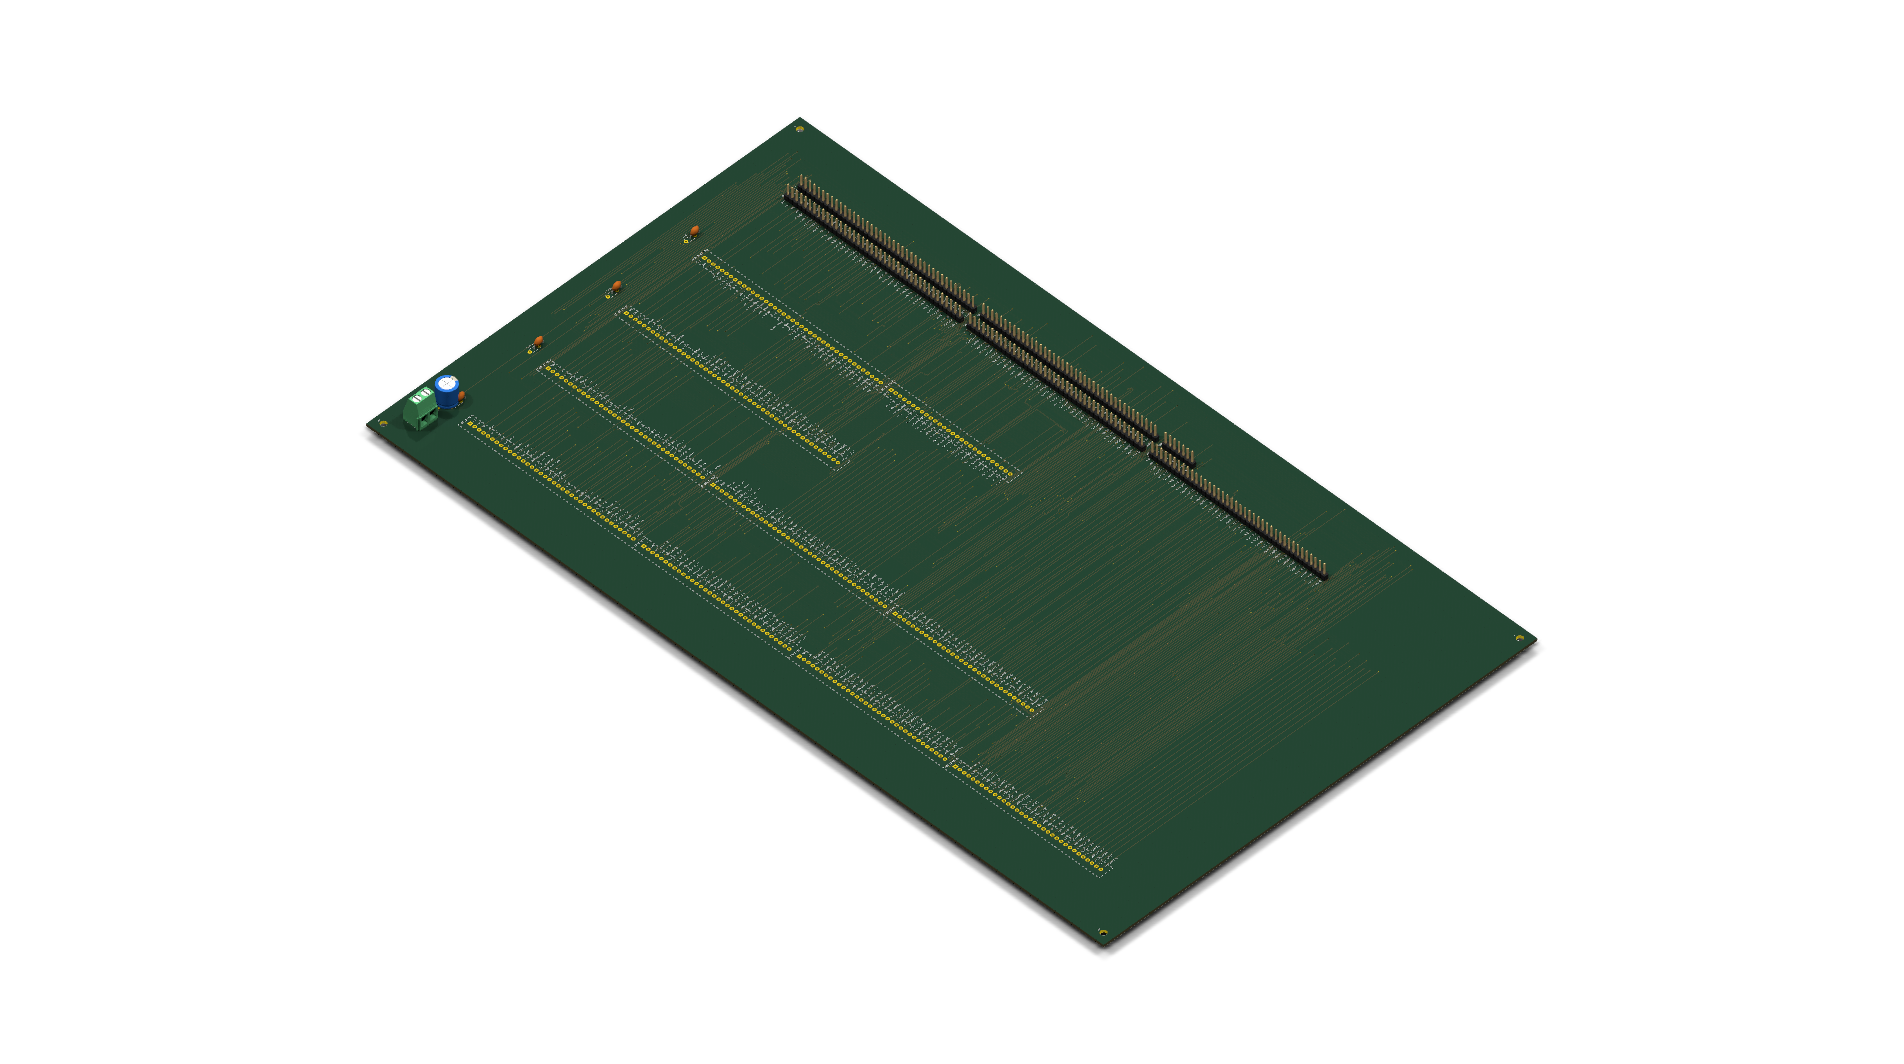
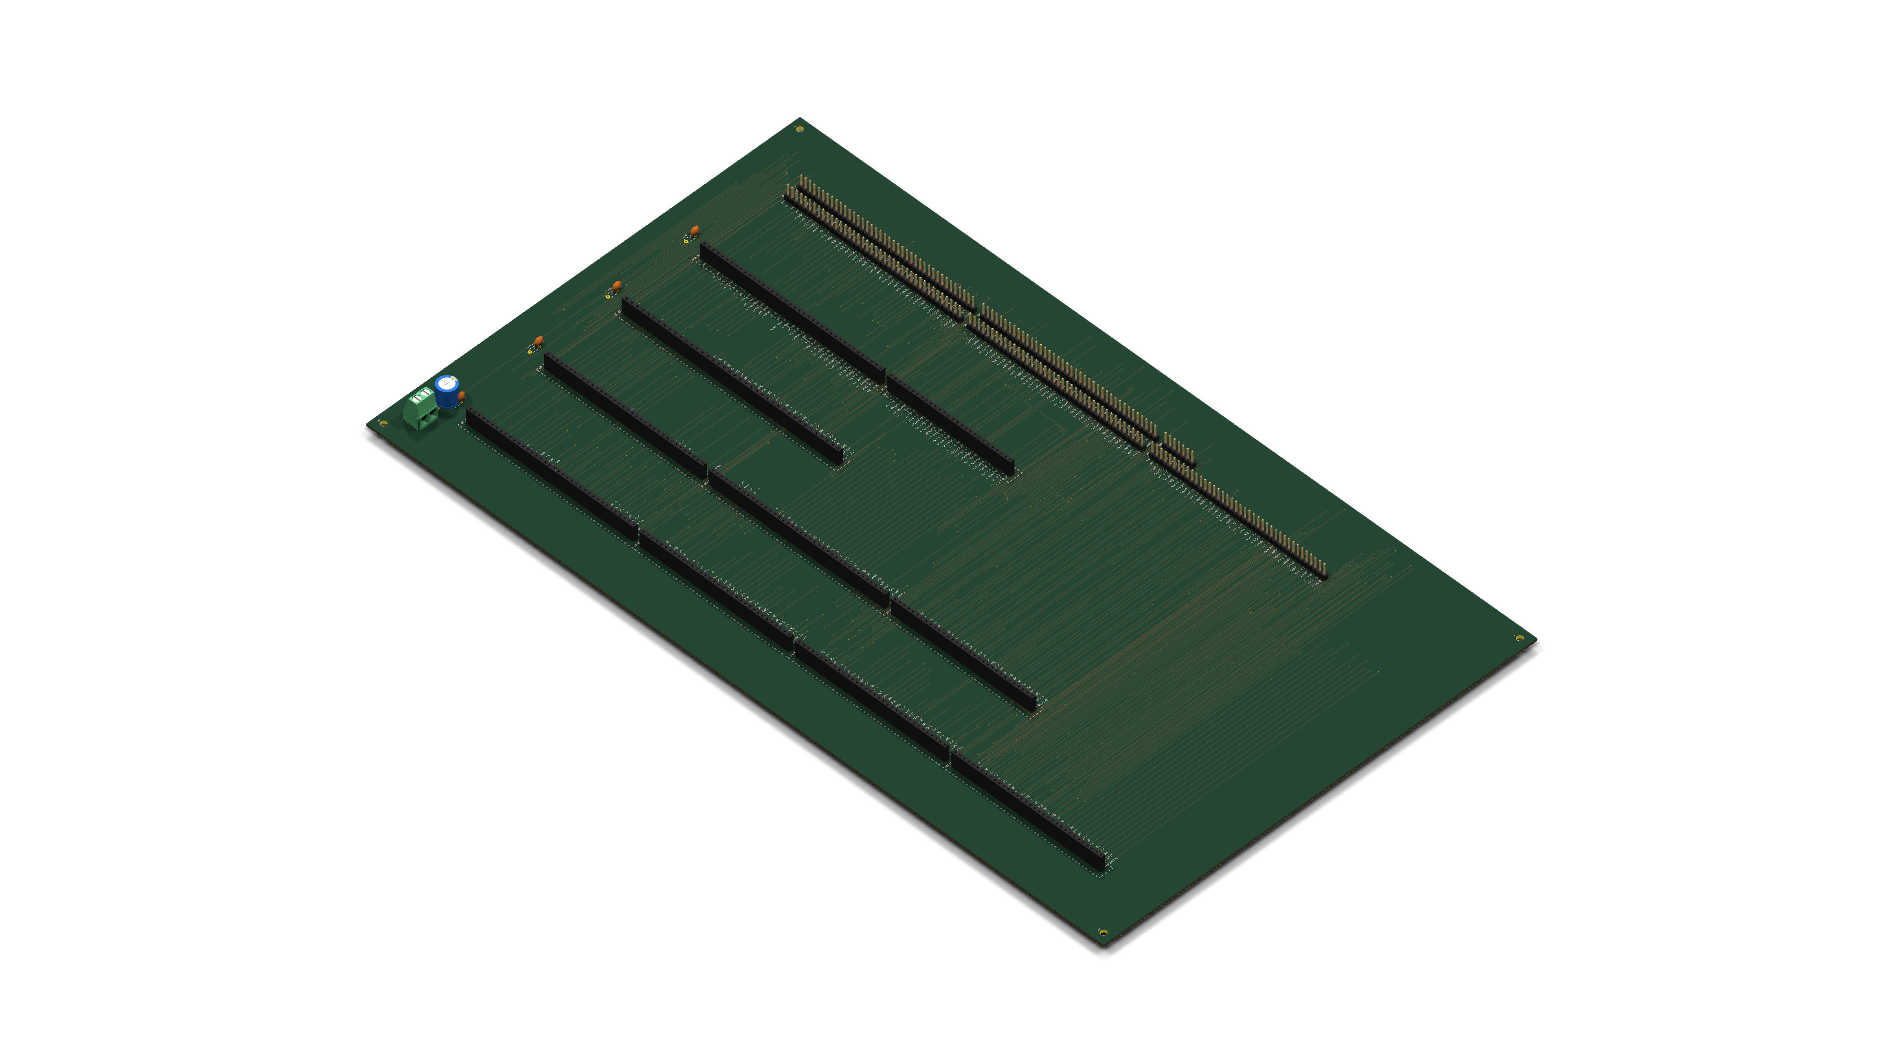
fix(layout): mapeamento de modelo 3D oficial KiCad para card_edge_socket

diff --git a/fr4lane/layout.py b/fr4lane/layout.py
@@ -235,6 +235,16 @@ def card_edge_socket(ref, n_pins, value="", pitch=2.54, horizontal=False):
         (bw / 2, span + 3.0, bw / 2, -3.0),
         (bw / 2, -3.0, -bw / 2, -3.0),
     ]
+
+    # Modelo 3D mapeado para a biblioteca oficial do KiCad (Connector_PinSocket_2.54mm)
+    m_pins = min(n_pins, 40)
+    scl_y = 1.0 if n_pins <= 40 else round(((n_pins - 1) * pitch) / (39.0 * 2.54), 4)
+    fp.model = {
+        "path": f"${{KICAD_3DMODEL_DIR}}/Connector_PinSocket_2.54mm.3dshapes/PinSocket_1x{m_pins:02d}_P2.54mm_Vertical.step",
+        "offset": (0.0, 0.0, 0.0),
+        "scale": (1.0, scl_y, 1.0),
+        "rotate": (0.0, 0.0, 0.0),
+    }
     return fp
 
 
